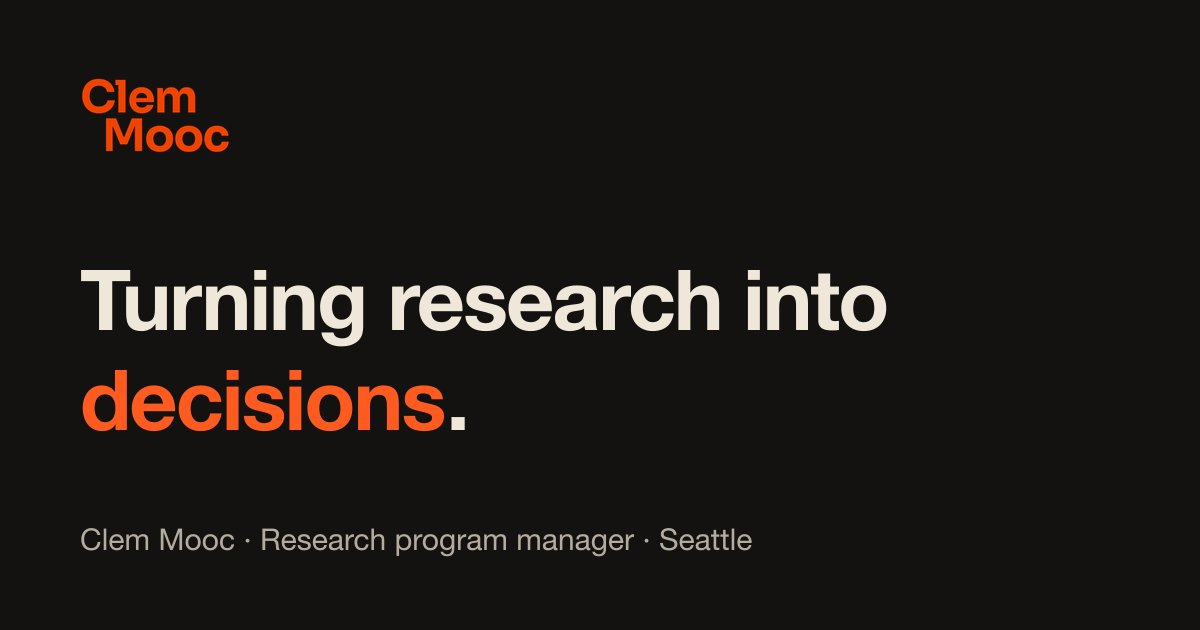
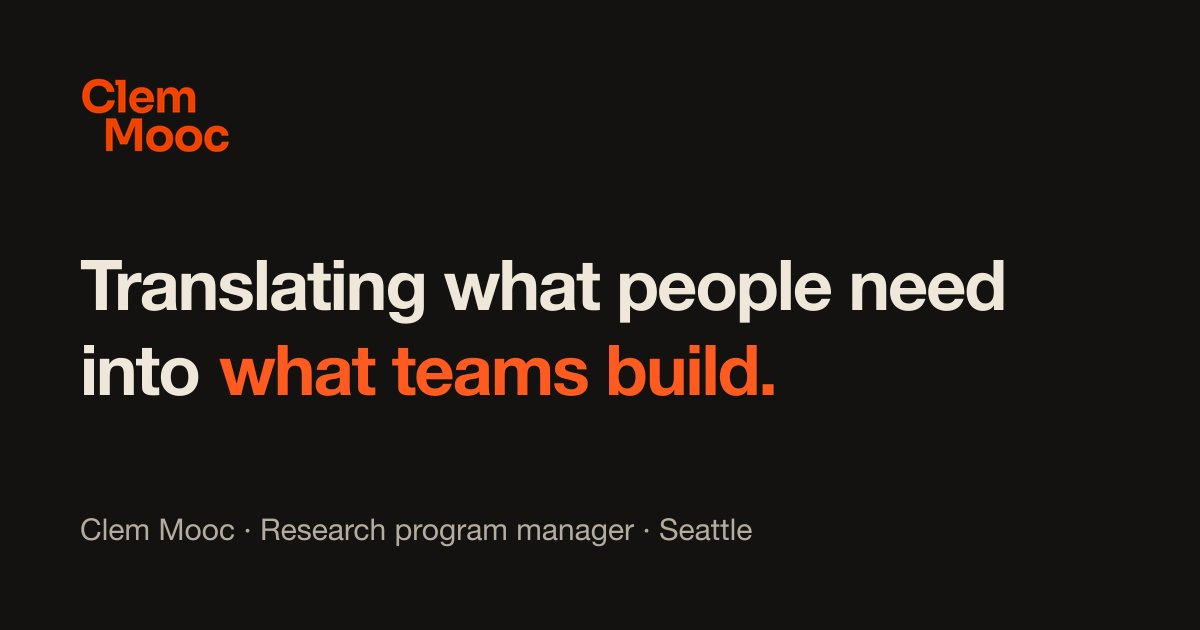
Home: interpreter-linked headline; tighter About paragraph; school links

Changed region(s): [[0.0617, 0.3921, 0.8633, 0.6937], [0.0617, 0.8143, 0.6475, 0.8746]]

diff --git a/src/data/experience.ts b/src/data/experience.ts
@@ -44,7 +44,7 @@ export const experience: Role[] = [
 ];
 
 export const education = [
-  { title: 'B.A. Business Administration (Information Systems, Marketing Analytics)', school: 'University of Washington, Foster School of Business' },
-  { title: 'Minor, Informatics (UX/UI)', school: 'University of Washington, Information School' },
-  { title: 'UX Design Certificate', school: 'School of Visual Concepts' },
+  { title: 'B.A. Business Administration (Information Systems, Marketing Analytics)', campus: 'University of Washington', school: 'Foster School of Business', url: 'https://foster.uw.edu/' },
+  { title: 'Minor, Informatics (UX/UI)', campus: 'University of Washington', school: 'Information School', url: 'https://ischool.uw.edu/' },
+  { title: 'UX Design Certificate', school: 'School of Visual Concepts', url: 'https://www.svcseattle.com/' },
 ];
